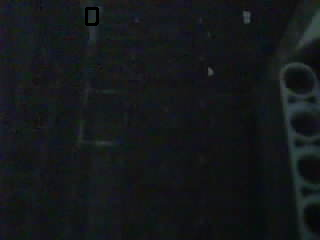
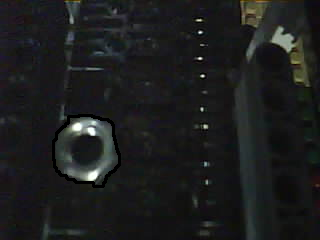
11/29

diff --git a/mainserver/processIMG.py b/mainserver/processIMG.py
@@ -1,6 +1,6 @@
 import cv2
 import numpy as np
-
+import getImg
 def detect_object_properties(image):
     # 读取图像
     
@@ -14,7 +14,7 @@ def detect_object_properties(image):
     gray = cv2.bitwise_not(gray)
 
     # 应用阈值处理
-    _, thresh = cv2.threshold(gray, 220, 255, cv2.THRESH_BINARY)
+    _, thresh = cv2.threshold(gray, 225, 255, cv2.THRESH_BINARY)
     cv2.imwrite('./thresh.png', thresh)
     # 进行膨胀和腐蚀操作
     kernel = cv2.getStructuringElement(cv2.MORPH_RECT, (3, 3))
@@ -22,12 +22,56 @@ def detect_object_properties(image):
     thresh = cv2.erode(thresh, kernel, iterations=3)
     thresh = cv2.dilate(thresh, kernel, iterations=5)
     thresh = cv2.erode(thresh, kernel, iterations=5)
-
+    # thresh = cv2.erode(thresh, kernel, iterations=5)
+    # thresh = cv2.dilate(thresh, kernel, iterations=3)
+    
     # 保存阈值处理后的图像
     cv2.imwrite('./thresh_afterdilate.png', thresh)
 
     return thresh
 
+
+# def extract_center_black_area(img):
+#     # 将图像转换为灰度图
+#     if len(img.shape) == 3:
+#         gray = cv2.cvtColor(img, cv2.COLOR_BGR2GRAY)
+#     else:
+#         gray = img.copy()
+
+#     # 对灰度图进行二值化，提取黑色区域
+#     threshold = 50
+#     _, binary = cv2.threshold(gray, threshold, 255, cv2.THRESH_BINARY_INV)
+
+#     # 寻找轮廓
+#     contours, _ = cv2.findContours(binary, cv2.RETR_EXTERNAL, cv2.CHAIN_APPROX_SIMPLE)
+
+#     # 找到离图像中心最近的黑色区域
+#     h, w = gray.shape
+#     center = (w // 2, h // 2)
+#     min_distance = float('inf')
+#     closest_contour = None
+
+#     for contour in contours:
+#         # 计算轮廓的质心
+#         M = cv2.moments(contour)
+#         if M["m00"] == 0:
+#             continue
+#         cX = int(M["m10"] / M["m00"])
+#         cY = int(M["m01"] / M["m00"])
+#         # 计算质心到图像中心的距离
+#         distance = ((cX - center[0]) ** 2 + (cY - center[1]) ** 2) ** 0.5
+#         if distance < min_distance:
+#             min_distance = distance
+#             closest_contour = contour
+
+#     # 创建一个全白的输出图像
+#     output = np.full_like(gray, 255)
+
+#     # 如果找到最近的轮廓，就在输出图像上绘制
+#     if closest_contour is not None:
+#         cv2.drawContours(output, [closest_contour], -1, (0), thickness=cv2.FILLED)
+
+#     return output
 
 def extract_center_black_area(img):
     # 将图像转换为灰度图
@@ -43,21 +87,28 @@ def extract_center_black_area(img):
     # 寻找轮廓
     contours, _ = cv2.findContours(binary, cv2.RETR_EXTERNAL, cv2.CHAIN_APPROX_SIMPLE)
 
-    # 找到离图像中心最近的黑色区域
+    # 找到离图像中心最近且面积大于1000的黑色区域
     h, w = gray.shape
     center = (w // 2, h // 2)
     min_distance = float('inf')
     closest_contour = None
 
     for contour in contours:
+        # 计算轮廓的面积，排除面积小于1000的轮廓
+        area = cv2.contourArea(contour)
+        if area < 1000:
+            continue  # 跳过面积小于1000的轮廓
+
         # 计算轮廓的质心
         M = cv2.moments(contour)
         if M["m00"] == 0:
-            continue
+            continue  # 避免除以零
         cX = int(M["m10"] / M["m00"])
         cY = int(M["m01"] / M["m00"])
+
         # 计算质心到图像中心的距离
         distance = ((cX - center[0]) ** 2 + (cY - center[1]) ** 2) ** 0.5
+
         if distance < min_distance:
             min_distance = distance
             closest_contour = contour
@@ -65,7 +116,7 @@ def extract_center_black_area(img):
     # 创建一个全白的输出图像
     output = np.full_like(gray, 255)
 
-    # 如果找到最近的轮廓，就在输出图像上绘制
+    # 如果找到符合条件的轮廓，就在输出图像上绘制
     if closest_contour is not None:
         cv2.drawContours(output, [closest_contour], -1, (0), thickness=cv2.FILLED)
 
@@ -170,7 +221,7 @@ def classify_object(center_img):
             circularity = 4 * np.pi * area / (perimeter * perimeter)
 
         # 判断是否为螺帽或螺丝
-        if circularity >= 0.7 and 0.9 <= aspect_ratio <= 1.1:
+        if circularity >= 0.7 :#and 0.9 <= aspect_ratio <= 1.1:
             classification = 'nut'  # 近似圆形，长宽比接近1
         else:
             classification = 'screw'  # 长条形，长宽比偏离1
@@ -252,7 +303,7 @@ def proc_img():
 
     CenterArea = calculate_black_area(center_img)
     print(CenterArea)
-    if CenterArea > 4000:
+    if CenterArea > 4500:
         return "err"
 
 
@@ -261,3 +312,12 @@ def proc_img():
     cv2.imwrite('./out.png', out_img)
 
     return(classify_object(center_img))
+if __name__ == '__main__':
+    image_url = "http://192.168.38.78/capture"
+    
+    # 保存的檔案路徑
+    save_path = "capture_image.jpg"
+    
+    # 下載圖片
+    getImg.download_image(image_url, save_path)
+    print(proc_img())

diff --git a/ev3/do_motor.py b/ev3/do_motor.py
@@ -27,7 +27,7 @@ def connect_to_server():
             
             print(":")
             if data == "forward":
-                outer_motor.run_forever(speed_sp=-5*(50))
+                outer_motor.run_forever(speed_sp=-2*(50))
                 sleep(3)
                 outer_motor.stop()
             elif data == "r":

diff --git a/mainserver/server.py b/mainserver/server.py
@@ -44,7 +44,7 @@ def start_server():
 
                 itemName = processIMG.proc_img()
                 if itemName == "err":
-                    toThinkSpeak(1)
+                    toThinkSpeak(3)
                     send_err()
                     running = 0
                     continue

diff --git a/mainserver/getImg.py b/mainserver/getImg.py
@@ -17,7 +17,7 @@ def download_image(url, save_path):
 
 if __name__ == "__main__":
     # 網頁圖片 URL
-    image_url = "http://192.168.145.78/capture"
+    image_url = "http://192.168.38.78/capture"
     
     # 保存的檔案路徑
     save_path = "capture_image.jpg"
